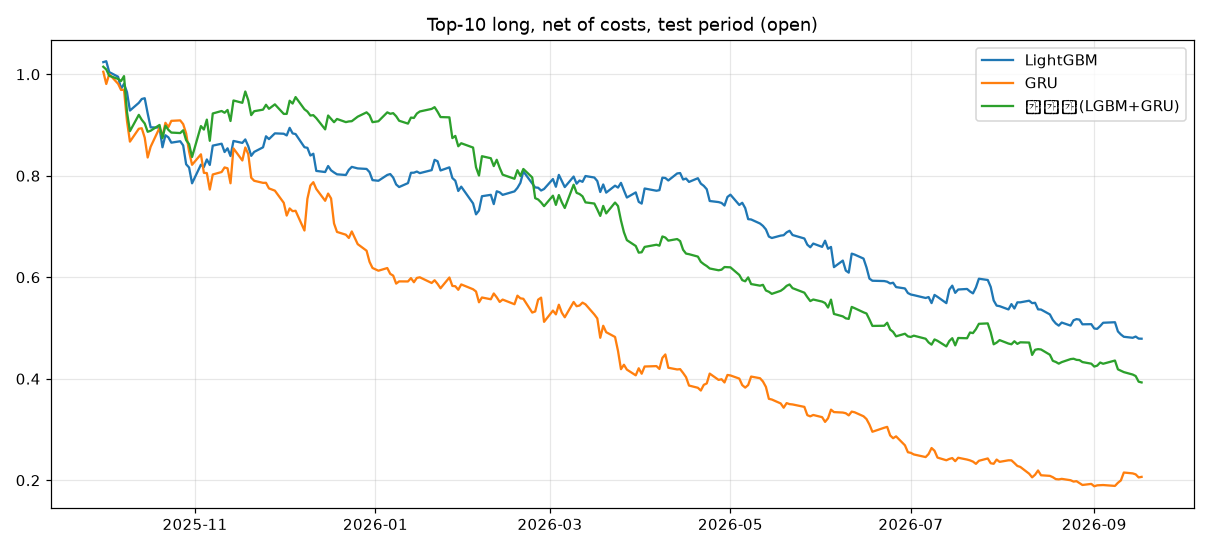
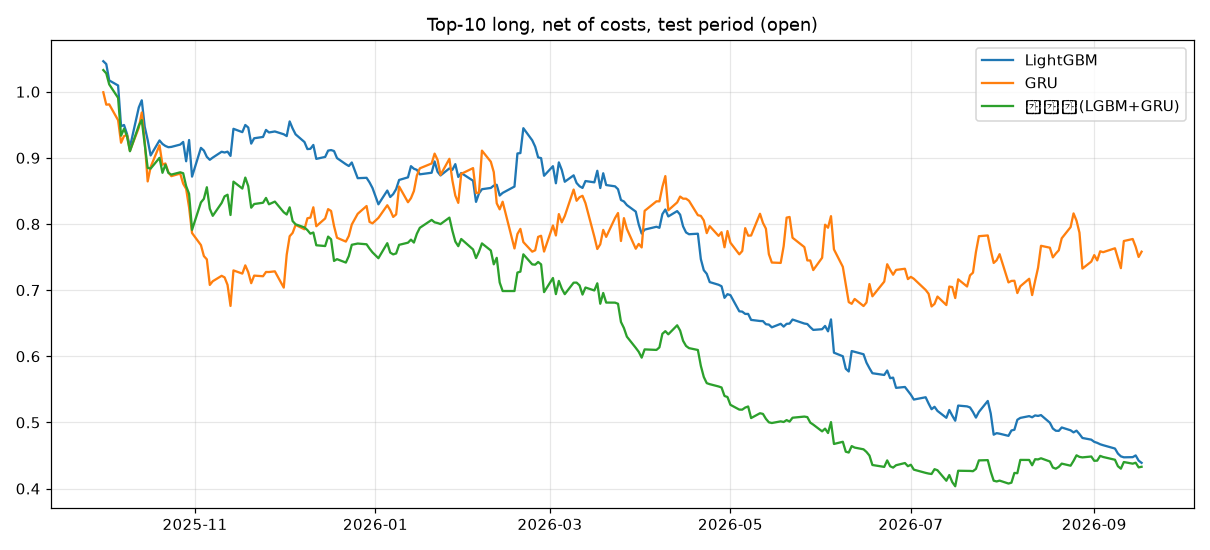
딥러닝 데이트레이딩 최종 결과(수정 특징 재학습), 다일 보유 점검, 보고서·README 반영
Claude-Session: https://claude.ai/code/session_01NSXH9bAKYc4gYm8CBYbLVP

diff --git a/scripts/make_findings.py b/scripts/make_findings.py
@@ -218,6 +218,9 @@ def main() -> None:
 4. 장중(1시간봉·15분봉)에서 시가·첫봉 확인·ORB·첫 눌림·VWAP 진입 × 시간/손절/익절/트레일 청산 조합 150개씩 → 두 기간 모두 양(+)인 조합 0개. 급등 다음날 고가의 58%(1시간봉)/35%(15분 첫 봉)가 개장 직후에 찍힌다.
 5. '승률 높은 거래만 골라 손절을 잘 하면 된다' 는 접근과 데이터의 관계: 손절을 타이트하게 할수록 승률이 15~30%로 떨어진다(급등주 일중 변동폭이 손절폭보다 크다). 손절을 넓히거나 없애면 승률 40~60%가 나오지만 그 승률은 위 2번처럼 체결 가정이나 로또 거래에 기대고 있다.
 6. 비교 기준: S&P 1500 유동주 돌파 추세추종은 올해 +81%(승률 40%) 였지만 작년 +3%(승률 32%) — 고승률도 아니고 올해 반도체 테마 장세 의존.
+7. **딥러닝/ML(7절)**: 문헌 설계(횡단면 순위 목표, LightGBM+GRU, 시간 분할)를 대형주 포함 4,259종목·1시간봉에 적용한 결과, 검증·테스트 모두 일별 IC +0.03~+0.05(t≈4~6)로 **이번 프로젝트에서 유일하게 통계적으로 유의한 예측력**이 나왔다.
+   그러나 시가 매수·종가 매도 상위 10종목의 거래당 총수익은 +0.4%(앙상블)~+0.7%(GRU)로 국내 증권사 왕복 비용 0.7% 와 같거나 낮아 비용후 −0.33%~−0.08%/거래. 10:30 진입은 총수익 ≈ 0. 다일 보유(3·5세션)로 늘리면 거래당 총수익 +0.6~+0.9%지만 중앙값 음수·상위 2% 제외 시 음수·반기 불일치로 강건하지 않다.
+   즉 **모델이 아니라 비용 구조가 병목**이다: 왕복 0.2% 이하(미국 무수수료 브로커 + 유동주 슬리피지)라면 GRU 상위 10 데이트레이딩은 비용후 +0.3~0.5%/거래 수준이 기대되지만, 국내 증권사 0.25%×2 구조에서는 손익분기(0.4~0.76%) 근처에 머문다.
 
 **실현 가능성 판단**: 국내 증권사 계좌(수수료 편도 0.25%, 공매도 불가)로 미국 동전주·소형주 급등주를 추격·눌림·오버나잇·장중 매수하는 자동매매는, 3년치 일봉·2년치 1시간봉·60일치 15분봉으로 24개 모델을 경쟁시킨 결과 **체결 가정을 조금만 현실적으로 바꿔도 살아남는 설정이 없다.** 자동화 대상이 아니라는 것이 검증 결과다.
 

diff --git a/reports/dl_daytrading/README_h1.md b/reports/dl_daytrading/README_h1.md
@@ -9,22 +9,22 @@
 | 모델 | IC 평균 | IC t | IC>0 일 비율 | 십분위 스프레드(상-하) | 상위10 거래/승률/총평균/비용후평균/누적수익/샤프/MDD |
 |---|---|---|---|---|---|
 | **검증** | | | | | |
-| LightGBM | +0.0271 | +1.7 | 64% | +0.05% (+0.08/+0.03) | 590 / 27.8% / +0.183% / -0.526% / -26.9% / -10.21 / -26.7% |
-| GRU | +0.0377 | +2.1 | 61% | +0.12% (+0.09/-0.04) | 590 / 26.4% / +0.200% / -0.565% / -29.0% / -5.50 / -28.5% |
-| 앙상블(LGBM+GRU) | +0.0348 | +2.0 | 61% | +0.08% (+0.09/+0.01) | 590 / 22.7% / +0.255% / -0.450% / -23.5% / -8.82 / -22.4% |
+| LightGBM | +0.0264 | +1.7 | 63% | +0.02% (+0.07/+0.05) | 590 / 26.9% / +0.132% / -0.576% / -29.0% / -12.57 / -29.3% |
+| GRU | +0.0386 | +2.2 | 61% | +0.11% (+0.10/-0.02) | 590 / 27.1% / -0.013% / -0.835% / -39.7% / -6.68 / -39.7% |
+| 앙상블(LGBM+GRU) | +0.0351 | +2.0 | 61% | +0.10% (+0.09/-0.02) | 590 / 22.5% / +0.266% / -0.442% / -23.1% / -8.97 / -22.5% |
 | 장중 모멘텀(첫1h 수익률↑) | -0.0045 | -0.3 | 51% | +0.07% (+0.14/+0.07) | 590 / 42.2% / -0.138% / -1.043% / -47.8% / -5.07 / -52.9% |
 | stocks-in-play(첫1h 상대거래량↑, 양봉만) | +0.0033 | +0.4 | 54% | -0.36% (+0.12/+0.48) | 590 / 38.5% / +0.014% / -0.762% / -37.2% / -5.49 / -47.0% |
-| 갭 페이드(갭↓) | -0.0045 | -0.3 | 53% | -0.01% (+0.01/+0.02) | 590 / 31.9% / -1.070% / -1.908% / -68.7% / -10.61 / -68.8% |
+| 갭 페이드(갭↓) | -0.0116 | -1.1 | 49% | -0.17% (-0.02/+0.14) | 590 / 35.9% / -0.835% / -1.690% / -64.3% / -9.73 / -63.9% |
 | 단기 반전(전일 수익률↓) | +0.0133 | +0.9 | 58% | -0.04% (+0.06/+0.10) | 590 / 36.3% / -0.629% / -1.500% / -60.1% / -7.91 / -61.0% |
 | 20일 모멘텀(↑) | +0.0096 | +0.9 | 56% | +0.06% (+0.10/+0.04) | 590 / 38.5% / -0.709% / -1.655% / -63.9% / -7.71 / -64.7% |
 | 52주 고가 근접(↑) | +0.0219 | +1.2 | 58% | +0.04% (+0.05/+0.01) | 590 / 23.1% / +0.095% / -0.625% / -31.0% / -18.58 / -30.9% |
 | **테스트** | | | | | |
-| LightGBM | +0.0343 | +4.0 | 62% | +0.20% (-0.01/-0.21) | 2410 / 26.3% / -0.001% / -0.720% / -82.8% / -9.93 / -82.4% |
-| GRU | +0.0346 | +4.1 | 59% | +0.21% (-0.01/-0.22) | 2410 / 31.3% / -0.074% / -0.903% / -89.4% / -6.76 / -89.9% |
-| 앙상블(LGBM+GRU) | +0.0370 | +4.2 | 61% | +0.23% (-0.00/-0.23) | 2410 / 23.6% / +0.058% / -0.660% / -80.1% / -9.05 / -80.0% |
+| LightGBM | +0.0336 | +3.9 | 61% | +0.20% (-0.01/-0.21) | 2410 / 25.4% / -0.056% / -0.775% / -84.9% / -10.91 / -84.6% |
+| GRU | +0.0328 | +3.9 | 60% | +0.21% (-0.01/-0.21) | 2410 / 34.9% / +0.152% / -0.728% / -83.9% / -5.05 / -84.7% |
+| 앙상블(LGBM+GRU) | +0.0358 | +4.1 | 62% | +0.21% (+0.00/-0.21) | 2410 / 24.0% / +0.045% / -0.679% / -80.9% / -10.08 / -80.8% |
 | 장중 모멘텀(첫1h 수익률↑) | -0.0314 | -4.4 | 38% | -0.09% (-0.11/-0.02) | 2410 / 38.9% / -0.743% / -1.644% / -98.5% / -6.73 / -98.5% |
 | stocks-in-play(첫1h 상대거래량↑, 양봉만) | -0.0213 | -4.0 | 39% | +0.10% (-0.08/-0.17) | 2410 / 37.6% / -0.351% / -1.141% / -94.2% / -7.11 / -94.1% |
-| 갭 페이드(갭↓) | -0.0067 | -0.7 | 47% | +0.01% (-0.07/-0.08) | 2410 / 40.5% / -0.014% / -0.939% / -91.2% / -4.19 / -91.8% |
+| 갭 페이드(갭↓) | -0.0014 | -0.2 | 50% | +0.02% (-0.07/-0.08) | 2410 / 41.8% / -0.230% / -1.156% / -94.9% / -5.02 / -94.9% |
 | 단기 반전(전일 수익률↓) | -0.0031 | -0.4 | 45% | -0.09% (-0.14/-0.04) | 2410 / 35.9% / -1.213% / -2.137% / -99.5% / -9.76 / -99.5% |
 | 20일 모멘텀(↑) | +0.0041 | +0.6 | 52% | +0.11% (-0.02/-0.14) | 2410 / 38.5% / -0.678% / -1.590% / -98.2% / -6.67 / -98.3% |
 | 52주 고가 근접(↑) | +0.0147 | +1.5 | 56% | +0.08% (-0.06/-0.14) | 2410 / 22.2% / -0.056% / -0.769% / -84.5% / -17.60 / -84.4% |
@@ -33,49 +33,51 @@
 
 | N | 거래 | 승률 | 총평균/거래 | 비용후 평균 | 누적(비용후) | 손익분기 왕복비용 |
 |---|---|---|---|---|---|---|
-| 1 | 241 | 24.5% | -0.004% | -0.727% | -83.6% | -0.00% |
-| 3 | 723 | 23.4% | +0.068% | -0.650% | -79.8% | 0.07% |
-| 5 | 1205 | 23.8% | +0.080% | -0.642% | -79.2% | 0.08% |
-| 10 | 2410 | 23.6% | +0.058% | -0.660% | -80.1% | 0.06% |
-| 20 | 4820 | 23.5% | +0.033% | -0.683% | -81.1% | 0.03% |
-| 50 | 12050 | 23.6% | +0.017% | -0.701% | -81.8% | 0.02% |
+| 1 | 241 | 28.6% | +0.218% | -0.515% | -72.7% | 0.22% |
+| 3 | 723 | 25.7% | +0.143% | -0.585% | -76.2% | 0.14% |
+| 5 | 1205 | 24.4% | +0.082% | -0.645% | -79.4% | 0.08% |
+| 10 | 2410 | 24.0% | +0.045% | -0.679% | -80.9% | 0.05% |
+| 20 | 4820 | 24.2% | +0.020% | -0.704% | -82.0% | 0.02% |
+| 50 | 12050 | 23.5% | -0.012% | -0.735% | -83.3% | -0.01% |
 
 ## 시총 구간별 (테스트, 앙상블 상위 K)
 
 | 시총 구간 | 거래 | 승률 | 총평균 | 비용후 평균 | 누적수익 |
 |---|---|---|---|---|---|
-| <$300M | 2410 | 34.7% | +0.239% | -0.674% | -81.0% |
-| $300M~$2B | 2410 | 34.2% | +0.110% | -0.633% | -78.7% |
-| $2B~$10B | 2410 | 28.8% | +0.031% | -0.675% | -80.8% |
-| >$10B | 2410 | 22.6% | +0.042% | -0.658% | -79.9% |
+| <$300M | 2410 | 33.6% | +0.249% | -0.690% | -81.7% |
+| $300M~$2B | 2410 | 36.1% | +0.099% | -0.651% | -79.7% |
+| $2B~$10B | 2410 | 29.2% | -0.012% | -0.717% | -82.6% |
+| >$10B | 2410 | 22.1% | -0.024% | -0.724% | -82.9% |
 
 ## 같은 예측을 다른 청산에 적용 (테스트, 앙상블 상위 K)
 
-| 청산 | 거래 | 승률 | 총평균 | 비용후 평균 | 누적수익 |
-|---|---|---|---|---|---|
-| 당일 종가(데이트레이딩) | 2410 | 23.6% | +0.058% | -0.660% | -80.1% |
-| 다음날 같은 시점(1일 보유) | 2400 | 34.9% | +0.243% | -0.476% | -69.5% |
-| 3세션 보유(t+2 종가) | 2390 | 29.7% | -0.181% | -0.900% | -90.0% |
-| 5세션 보유(t+4 종가) | 2370 | 33.6% | +0.025% | -0.694% | -84.2% |
+다일 보유의 누적은 자본을 보유일수(H)만큼의 코호트로 나눠 중첩 보유한다고 보고 일 수익률/H 로 근사(중첩 보정). 유니버스 평균 = 같은 기간 아무 종목이나 샀을 때의 평균(베이스라인).
 
-**손익분기 왕복 비용**(앙상블 상위 10, 테스트): 총평균 +0.058%/거래 — 이보다 왕복 비용이 크면 손실. 국내 증권사 기본 수수료(0.25%x2=0.5%)+슬리피지(0.2%)=0.7%.
+| 청산 | 거래 | 승률 | 총평균 | 비용후 평균 | 유니버스 평균 | 누적(중첩 보정) |
+|---|---|---|---|---|---|---|
+| 당일 종가(데이트레이딩) | 2410 | 24.0% | +0.045% | -0.679% | -0.055% | -80.9% |
+| 다음날 같은 시점(1일 보유) | 2400 | 33.9% | +0.195% | -0.530% | +0.014% | -73.3% |
+| 3세션 보유(t+2 종가) | 2390 | 39.2% | +0.207% | -0.517% | -0.030% | -34.5% |
+| 5세션 보유(t+4 종가) | 2370 | 44.1% | +0.463% | -0.262% | -0.015% | -12.2% |
+
+**손익분기 왕복 비용**(앙상블 상위 10, 테스트): 총평균 +0.045%/거래 — 이보다 왕복 비용이 크면 손실. 국내 증권사 기본 수수료(0.25%x2=0.5%)+슬리피지(0.2%)=0.7%.
 
 ## LightGBM 특징 중요도 (gain 상위 15)
 
 | 특징 | gain |
 |---|---|
-| spy_h1 | 7,463 |
-| spy_prev | 6,787 |
-| atr_pct | 2,631 |
-| lr_m1 | 1,369 |
-| h1_ret | 852 |
-| spy_above200 | 773 |
-| from_high52 | 737 |
-| rng_mean35 | 730 |
-| lr_sum_14_7 | 700 |
-| prev_ret | 528 |
-| log_mcap | 479 |
-| gap | 438 |
-| rng_mean7 | 415 |
-| ret20 | 408 |
-| ret60 | 395 |
+| spy_h1 | 6,979 |
+| spy_prev | 5,990 |
+| atr_pct | 2,566 |
+| lr_m1 | 1,379 |
+| h1_ret | 800 |
+| rng_mean35 | 783 |
+| spy_above200 | 751 |
+| lr_sum_14_7 | 693 |
+| from_high52 | 659 |
+| prev_ret | 530 |
+| log_mcap | 498 |
+| ret20 | 392 |
+| rng_mean7 | 389 |
+| gap | 364 |
+| ret60 | 328 |

diff --git a/reports/dl_daytrading/README_open.md b/reports/dl_daytrading/README_open.md
@@ -9,18 +9,18 @@
 | 모델 | IC 평균 | IC t | IC>0 일 비율 | 십분위 스프레드(상-하) | 상위10 거래/승률/총평균/비용후평균/누적수익/샤프/MDD |
 |---|---|---|---|---|---|
 | **검증** | | | | | |
-| LightGBM | +0.0382 | +2.1 | 61% | +0.29% (+0.07/-0.21) | 590 / 36.4% / +0.059% / -0.650% / -32.4% / -6.96 / -30.8% |
-| GRU | +0.0386 | +1.8 | 61% | +0.22% (+0.07/-0.15) | 590 / 32.2% / -0.055% / -0.841% / -40.1% / -5.90 / -36.9% |
-| 앙상블(LGBM+GRU) | +0.0394 | +1.9 | 64% | +0.22% (+0.05/-0.17) | 590 / 34.9% / +0.100% / -0.611% / -30.8% / -6.89 / -31.0% |
-| 갭 페이드(갭↓) | +0.0093 | +0.6 | 59% | +0.17% (+0.09/-0.08) | 590 / 38.1% / -1.076% / -1.913% / -69.2% / -8.51 / -69.7% |
+| LightGBM | +0.0483 | +2.6 | 66% | +0.34% (+0.10/-0.25) | 590 / 40.2% / +0.394% / -0.317% / -17.5% / -4.01 / -18.1% |
+| GRU | +0.0493 | +2.5 | 64% | +0.30% (+0.09/-0.21) | 590 / 43.1% / +0.252% / -0.506% / -26.8% / -3.90 / -27.0% |
+| 앙상블(LGBM+GRU) | +0.0506 | +2.6 | 64% | +0.30% (+0.09/-0.21) | 590 / 41.9% / +0.239% / -0.481% / -25.4% / -4.74 / -26.5% |
+| 갭 페이드(갭↓) | +0.0379 | +3.2 | 68% | +0.21% (+0.10/-0.11) | 590 / 42.0% / -0.733% / -1.589% / -62.7% / -6.76 / -64.5% |
 | 단기 반전(전일 수익률↓) | +0.0176 | +1.3 | 59% | +0.00% (-0.07/-0.07) | 590 / 35.9% / -1.855% / -2.723% / -81.3% / -10.98 / -81.1% |
 | 20일 모멘텀(↑) | +0.0077 | +0.7 | 51% | +0.05% (+0.01/-0.04) | 590 / 39.0% / -1.311% / -2.258% / -75.7% / -7.79 / -78.2% |
 | 52주 고가 근접(↑) | +0.0310 | +1.4 | 63% | +0.09% (+0.05/-0.04) | 590 / 28.5% / +0.094% / -0.626% / -31.1% / -13.08 / -31.0% |
 | **테스트** | | | | | |
-| LightGBM | +0.0404 | +4.0 | 61% | +0.50% (+0.11/-0.40) | 2410 / 42.8% / +0.435% / -0.288% / -52.1% / -2.51 / -53.3% |
-| GRU | +0.0405 | +4.1 | 63% | +0.48% (+0.09/-0.39) | 2410 / 38.0% / +0.175% / -0.613% / -79.3% / -3.45 / -81.3% |
-| 앙상블(LGBM+GRU) | +0.0416 | +4.1 | 61% | +0.50% (+0.10/-0.40) | 2410 / 38.8% / +0.351% / -0.368% / -60.7% / -3.02 / -61.3% |
-| 갭 페이드(갭↓) | +0.0235 | +2.5 | 59% | +0.27% (+0.08/-0.20) | 2410 / 44.4% / -0.043% / -0.968% / -92.3% / -3.61 / -92.8% |
+| LightGBM | +0.0457 | +4.8 | 62% | +0.51% (+0.10/-0.40) | 2410 / 42.2% / +0.402% / -0.324% / -56.1% / -2.75 / -58.0% |
+| GRU | +0.0544 | +5.7 | 65% | +0.57% (+0.15/-0.42) | 2410 / 46.6% / +0.699% / -0.076% / -24.2% / -0.44 / -32.4% |
+| 앙상블(LGBM+GRU) | +0.0523 | +5.4 | 63% | +0.57% (+0.14/-0.43) | 2410 / 43.8% / +0.410% / -0.327% / -56.7% / -2.58 / -60.9% |
+| 갭 페이드(갭↓) | +0.0419 | +4.6 | 65% | +0.38% (+0.10/-0.27) | 2410 / 45.5% / -0.208% / -1.134% / -94.9% / -4.18 / -95.0% |
 | 단기 반전(전일 수익률↓) | +0.0017 | +0.2 | 51% | -0.11% (-0.19/-0.09) | 2410 / 38.0% / -1.770% / -2.694% / -99.9% / -9.31 / -99.9% |
 | 20일 모멘텀(↑) | -0.0031 | -0.4 | 49% | +0.13% (-0.06/-0.19) | 2410 / 38.6% / -1.143% / -2.053% / -99.5% / -6.82 / -99.5% |
 | 52주 고가 근접(↑) | +0.0126 | +1.2 | 54% | +0.14% (-0.04/-0.17) | 2410 / 27.1% / -0.076% / -0.790% / -85.4% / -13.21 / -85.3% |
@@ -29,49 +29,51 @@
 
 | N | 거래 | 승률 | 총평균/거래 | 비용후 평균 | 누적(비용후) | 손익분기 왕복비용 |
 |---|---|---|---|---|---|---|
-| 1 | 241 | 45.6% | +0.596% | -0.130% | -52.8% | 0.60% |
-| 3 | 723 | 42.0% | +0.642% | -0.077% | -28.6% | 0.64% |
-| 5 | 1205 | 41.1% | +0.463% | -0.255% | -50.0% | 0.46% |
-| 10 | 2410 | 38.8% | +0.351% | -0.368% | -60.7% | 0.35% |
-| 20 | 4820 | 38.0% | +0.331% | -0.384% | -61.5% | 0.33% |
-| 50 | 12050 | 35.5% | +0.234% | -0.479% | -69.1% | 0.23% |
+| 1 | 241 | 49.0% | +0.758% | +0.015% | -33.6% | 0.76% |
+| 3 | 723 | 46.7% | +0.270% | -0.467% | -71.8% | 0.27% |
+| 5 | 1205 | 46.1% | +0.468% | -0.271% | -52.2% | 0.47% |
+| 10 | 2410 | 43.8% | +0.410% | -0.327% | -56.7% | 0.41% |
+| 20 | 4820 | 41.6% | +0.362% | -0.368% | -60.1% | 0.36% |
+| 50 | 12050 | 39.0% | +0.258% | -0.462% | -67.9% | 0.26% |
 
 ## 시총 구간별 (테스트, 앙상블 상위 K)
 
 | 시총 구간 | 거래 | 승률 | 총평균 | 비용후 평균 | 누적수익 |
 |---|---|---|---|---|---|
-| <$300M | 2410 | 29.7% | +0.354% | -0.533% | -73.5% |
-| $300M~$2B | 2410 | 42.7% | +0.490% | -0.264% | -49.8% |
-| $2B~$10B | 2410 | 40.6% | +0.420% | -0.287% | -51.8% |
-| >$10B | 2410 | 34.4% | +0.149% | -0.552% | -74.3% |
+| <$300M | 2410 | 37.1% | +0.542% | -0.356% | -59.8% |
+| $300M~$2B | 2410 | 46.2% | +0.487% | -0.256% | -48.7% |
+| $2B~$10B | 2410 | 44.1% | +0.389% | -0.315% | -54.8% |
+| >$10B | 2410 | 36.2% | +0.157% | -0.544% | -73.9% |
 
 ## 같은 예측을 다른 청산에 적용 (테스트, 앙상블 상위 K)
 
-| 청산 | 거래 | 승률 | 총평균 | 비용후 평균 | 누적수익 |
-|---|---|---|---|---|---|
-| 당일 종가(데이트레이딩) | 2410 | 38.8% | +0.351% | -0.368% | -60.7% |
-| 다음날 같은 시점(1일 보유) | 2400 | 43.2% | +0.403% | -0.316% | -55.7% |
-| 3세션 보유(t+2 종가) | 2390 | 43.6% | +1.678% | +0.959% | +669.8% |
-| 5세션 보유(t+4 종가) | 2370 | 45.9% | +1.810% | +1.090% | +888.4% |
+다일 보유의 누적은 자본을 보유일수(H)만큼의 코호트로 나눠 중첩 보유한다고 보고 일 수익률/H 로 근사(중첩 보정). 유니버스 평균 = 같은 기간 아무 종목이나 샀을 때의 평균(베이스라인).
 
-**손익분기 왕복 비용**(앙상블 상위 10, 테스트): 총평균 +0.351%/거래 — 이보다 왕복 비용이 크면 손실. 국내 증권사 기본 수수료(0.25%x2=0.5%)+슬리피지(0.2%)=0.7%.
+| 청산 | 거래 | 승률 | 총평균 | 비용후 평균 | 유니버스 평균 | 누적(중첩 보정) |
+|---|---|---|---|---|---|---|
+| 당일 종가(데이트레이딩) | 2410 | 43.8% | +0.410% | -0.327% | -0.029% | -56.7% |
+| 다음날 같은 시점(1일 보유) | 2400 | 47.0% | +0.459% | -0.277% | +0.016% | -51.7% |
+| 3세션 보유(t+2 종가) | 2390 | 49.5% | +0.593% | -0.143% | -0.001% | -12.0% |
+| 5세션 보유(t+4 종가) | 2370 | 49.3% | +0.859% | +0.123% | +0.017% | +5.2% |
+
+**손익분기 왕복 비용**(앙상블 상위 10, 테스트): 총평균 +0.410%/거래 — 이보다 왕복 비용이 크면 손실. 국내 증권사 기본 수수료(0.25%x2=0.5%)+슬리피지(0.2%)=0.7%.
 
 ## LightGBM 특징 중요도 (gain 상위 15)
 
 | 특징 | gain |
 |---|---|
-| spy_prev | 11,129 |
-| gap | 3,188 |
-| atr_pct | 2,808 |
-| rng_mean35 | 2,630 |
-| from_high52 | 862 |
-| rng_mean7 | 816 |
-| spy_above200 | 657 |
-| lr_m7 | 653 |
-| volz_mean7 | 470 |
-| lr_m4 | 393 |
-| log_mcap | 374 |
-| log_adv | 373 |
-| volz_last | 344 |
-| lr_sum_14_7 | 343 |
-| ret20 | 307 |
+| spy_prev | 9,016 |
+| gap | 5,759 |
+| atr_pct | 2,730 |
+| rng_mean35 | 2,452 |
+| rng_mean7 | 1,213 |
+| from_high52 | 1,040 |
+| spy_above200 | 610 |
+| lr_m7 | 527 |
+| log_adv | 520 |
+| log_mcap | 518 |
+| volz_mean7 | 471 |
+| ret60 | 448 |
+| vol_ratio_prev | 440 |
+| lr_m4 | 392 |
+| log_price | 348 |

diff --git a/reports/surge_study/FINDINGS.md b/reports/surge_study/FINDINGS.md
@@ -19,6 +19,9 @@
 4. 장중(1시간봉·15분봉)에서 시가·첫봉 확인·ORB·첫 눌림·VWAP 진입 × 시간/손절/익절/트레일 청산 조합 150개씩 → 두 기간 모두 양(+)인 조합 0개. 급등 다음날 고가의 58%(1시간봉)/35%(15분 첫 봉)가 개장 직후에 찍힌다.
 5. '승률 높은 거래만 골라 손절을 잘 하면 된다' 는 접근과 데이터의 관계: 손절을 타이트하게 할수록 승률이 15~30%로 떨어진다(급등주 일중 변동폭이 손절폭보다 크다). 손절을 넓히거나 없애면 승률 40~60%가 나오지만 그 승률은 위 2번처럼 체결 가정이나 로또 거래에 기대고 있다.
 6. 비교 기준: S&P 1500 유동주 돌파 추세추종은 올해 +81%(승률 40%) 였지만 작년 +3%(승률 32%) — 고승률도 아니고 올해 반도체 테마 장세 의존.
+7. **딥러닝/ML(7절)**: 문헌 설계(횡단면 순위 목표, LightGBM+GRU, 시간 분할)를 대형주 포함 4,259종목·1시간봉에 적용한 결과, 검증·테스트 모두 일별 IC +0.03~+0.05(t≈4~6)로 **이번 프로젝트에서 유일하게 통계적으로 유의한 예측력**이 나왔다.
+   그러나 시가 매수·종가 매도 상위 10종목의 거래당 총수익은 +0.4%(앙상블)~+0.7%(GRU)로 국내 증권사 왕복 비용 0.7% 와 같거나 낮아 비용후 −0.33%~−0.08%/거래. 10:30 진입은 총수익 ≈ 0. 다일 보유(3·5세션)로 늘리면 거래당 총수익 +0.6~+0.9%지만 중앙값 음수·상위 2% 제외 시 음수·반기 불일치로 강건하지 않다.
+   즉 **모델이 아니라 비용 구조가 병목**이다: 왕복 0.2% 이하(미국 무수수료 브로커 + 유동주 슬리피지)라면 GRU 상위 10 데이트레이딩은 비용후 +0.3~0.5%/거래 수준이 기대되지만, 국내 증권사 0.25%×2 구조에서는 손익분기(0.4~0.76%) 근처에 머문다.
 
 **실현 가능성 판단**: 국내 증권사 계좌(수수료 편도 0.25%, 공매도 불가)로 미국 동전주·소형주 급등주를 추격·눌림·오버나잇·장중 매수하는 자동매매는, 3년치 일봉·2년치 1시간봉·60일치 15분봉으로 24개 모델을 경쟁시킨 결과 **체결 가정을 조금만 현실적으로 바꿔도 살아남는 설정이 없다.** 자동화 대상이 아니라는 것이 검증 결과다.
 
@@ -216,7 +219,40 @@
 
 봉별 고가/저가 분포와 시간대별 수익률은 `intraday_1h/README.md`, `intraday_15m/README.md` 참고.
 
-## 7. 비교: S&P 1500 유동주 전략 (같은 비용)
+## 7. 딥러닝/ML 데이트레이딩 (대형주 포함 4,259종목, 1시간봉, 문헌 설계 차용)
+
+문헌(Fischer & Krauss 2018, Ghosh et al. 2021, Gao et al. 2018, Zarattini et al. 2024, Kaggle 상위 솔루션, López de Prado)의 설계를 그대로 차용해
+횡단면 순위 목표값 + LightGBM/GRU 앙상블을 학습(~2025-06)·검증(2025-07~09)·테스트(2025-10~2026-09)로 나눠 평가했다. 조사 내용: `docs/daytrading_dl_research.md`.
+
+### 시가 결정 → 종가 청산
+
+| 모델 | IC(t) | 상위10 승률 | 총평균/거래 | 비용후/거래 | 누적(비용후) |
+|---|---|---|---|---|---|
+| LightGBM | +0.046 (+4.8) | 42.2% | +0.402% | -0.324% | -56.1% |
+| GRU | +0.054 (+5.7) | 46.6% | +0.699% | -0.076% | -24.2% |
+| 앙상블(LGBM+GRU) | +0.052 (+5.4) | 43.8% | +0.410% | -0.327% | -56.7% |
+| 갭 페이드(갭↓) | +0.042 (+4.6) | 45.5% | -0.208% | -1.134% | -94.9% |
+| 단기 반전(전일 수익률↓) | +0.002 (+0.2) | 38.0% | -1.770% | -2.694% | -99.9% |
+| 20일 모멘텀(↑) | -0.003 (-0.4) | 38.6% | -1.143% | -2.053% | -99.5% |
+| 52주 고가 근접(↑) | +0.013 (+1.2) | 27.1% | -0.076% | -0.790% | -85.4% |
+
+### 10:30 결정 → 종가 청산
+
+| 모델 | IC(t) | 상위10 승률 | 총평균/거래 | 비용후/거래 | 누적(비용후) |
+|---|---|---|---|---|---|
+| LightGBM | +0.034 (+3.9) | 25.4% | -0.056% | -0.775% | -84.9% |
+| GRU | +0.033 (+3.9) | 34.9% | +0.152% | -0.728% | -83.9% |
+| 앙상블(LGBM+GRU) | +0.036 (+4.1) | 24.0% | +0.045% | -0.679% | -80.9% |
+| 장중 모멘텀(첫1h 수익률↑) | -0.031 (-4.4) | 38.9% | -0.743% | -1.644% | -98.5% |
+| stocks-in-play(첫1h 상대거래량↑, 양봉만) | -0.021 (-4.0) | 37.6% | -0.351% | -1.141% | -94.2% |
+| 갭 페이드(갭↓) | -0.001 (-0.2) | 41.8% | -0.230% | -1.156% | -94.9% |
+| 단기 반전(전일 수익률↓) | -0.003 (-0.4) | 35.9% | -1.213% | -2.137% | -99.5% |
+| 20일 모멘텀(↑) | +0.004 (+0.6) | 38.5% | -0.678% | -1.590% | -98.2% |
+| 52주 고가 근접(↑) | +0.015 (+1.5) | 22.2% | -0.056% | -0.769% | -84.5% |
+상세(상위 N 스윕, 시총 구간, 다일 보유, 장중 청산 규칙): `reports/dl_daytrading/README_open.md`, `README_h1.md`, `exits_*.md`.
+
+
+## 8. 비교: S&P 1500 유동주 전략 (같은 비용)
 
 | 전략 | 기간 | 거래 | 승률 | 수익률 | MDD | PF | SPY |
 |---|---|---|---|---|---|---|---|
@@ -225,7 +261,7 @@
 | pullback | 2025-09-18~2026-09-17 | 583 | 52.8% | -34.7% | -37.8% | 0.60 | +16.4% |
 | breakout | 2025-09-18~2026-09-17 | 141 | 39.7% | +80.9% | -20.5% | 1.96 | +16.4% |
 
-## 8. 한계와 다음 단계
+## 9. 한계와 다음 단계
 
 - 생존 편향(상장폐지 종목 누락), 프리마켓·뉴스·공시 데이터 부재, float 대신 발행주식수, 15분봉은 60일뿐.
 - 1분·15분봉 1년치가 필요하면 국내 증권사 API(한국투자증권 해외주식 분봉)로 매일 축적하거나 유료 데이터(Polygon 등)를 붙여야 한다. `scripts/fetch_intraday.py` 와 `scripts/intraday_study.py` 는 봉 간격만 바꾸면 그대로 쓸 수 있다.

diff --git a/reports/dl_daytrading/multiday_open.md b/reports/dl_daytrading/multiday_open.md
@@ -1,0 +1,63 @@
+# 같은 예측으로 다일 보유 — 점검 (결정 open, 앙상블 상위 10)
+
+시간봉 종가 기준 라벨(배당 미조정 기준 통일). 비용후 = 왕복 0.7%(≥$5)/1.5%(동전주). 누적(중첩 보정) = 일 수익률/보유일수 로 근사. 상위10건 손익 비중 = 상위 10건 순손익 / 전체 순손익(100% 초과면 나머지 거래 합이 손실).
+
+## 당일 종가 (y_rod)
+
+| 구분 | 거래 | 승률 | 총평균 | 비용후 평균 | 중앙값 | 누적(중첩 보정) | 상위10건 손익 비중 | 상위 2% 제외 평균 |
+|---|---|---|---|---|---|---|---|---|
+| 테스트 전체 | 2410 | 43.8% | +0.410% | -0.327% | -0.389% | -56.7% | nan% | -0.670% |
+| 테스트 전반(~2026-03-14) | 1120 | 44.8% | +0.452% | -0.288% | -0.361% | -29.6% | nan% | -0.664% |
+| 테스트 후반(2026-03-15~) | 1290 | 42.9% | +0.373% | -0.360% | -0.404% | -38.5% | nan% | -0.660% |
+| 검증(2025-07~09) | 590 | 41.9% | +0.239% | -0.481% | -0.396% | -25.4% | nan% | -0.711% |
+| 테스트 시총 <$300M | 2410 | 37.1% | +0.542% | -0.356% | -0.586% | -59.8% | nan% | -0.779% |
+| 테스트 시총 $300M~$2B | 2410 | 46.2% | +0.487% | -0.256% | -0.203% | -48.7% | nan% | -0.562% |
+| 테스트 시총 $2B~$10B | 2410 | 44.1% | +0.389% | -0.315% | -0.340% | -54.8% | nan% | -0.582% |
+| 테스트 시총 >$10B | 2410 | 36.2% | +0.157% | -0.544% | -0.595% | -73.9% | nan% | -0.738% |
+
+유니버스 평균(테스트, 베이스라인): -0.029% · 십분위별 평균: 0:-0.43%, 1:+0.00%, 2:+0.01%, 3:-0.01%, 4:-0.03%, 5:-0.01%, 6:-0.01%, 7:+0.01%, 8:+0.05%, 9:+0.14%
+
+## 1일 보유 (y_nd)
+
+| 구분 | 거래 | 승률 | 총평균 | 비용후 평균 | 중앙값 | 누적(중첩 보정) | 상위10건 손익 비중 | 상위 2% 제외 평균 |
+|---|---|---|---|---|---|---|---|---|
+| 테스트 전체 | 2400 | 47.0% | +0.459% | -0.277% | -0.232% | -51.7% | nan% | -0.631% |
+| 테스트 전반(~2026-03-14) | 1120 | 44.6% | +0.365% | -0.376% | -0.334% | -36.3% | nan% | -0.750% |
+| 테스트 후반(2026-03-15~) | 1280 | 49.1% | +0.542% | -0.190% | -0.094% | -24.2% | nan% | -0.516% |
+| 검증(2025-07~09) | 590 | 44.1% | +0.283% | -0.437% | -0.429% | -23.4% | nan% | -0.682% |
+| 테스트 시총 <$300M | 2400 | 37.3% | +0.282% | -0.615% | -0.626% | -78.6% | nan% | -1.052% |
+| 테스트 시총 $300M~$2B | 2399 | 47.9% | +0.521% | -0.221% | -0.162% | -44.6% | nan% | -0.525% |
+| 테스트 시총 $2B~$10B | 2400 | 45.8% | +0.488% | -0.216% | -0.248% | -43.1% | nan% | -0.517% |
+| 테스트 시총 >$10B | 2400 | 41.8% | +0.333% | -0.368% | -0.454% | -60.4% | nan% | -0.603% |
+
+유니버스 평균(테스트, 베이스라인): +0.016% · 십분위별 평균: 0:-0.51%, 1:+0.04%, 2:+0.06%, 3:+0.04%, 4:+0.03%, 5:+0.05%, 6:+0.03%, 7:+0.07%, 8:+0.11%, 9:+0.23%
+
+## 3세션 보유 (y_3d)
+
+| 구분 | 거래 | 승률 | 총평균 | 비용후 평균 | 중앙값 | 누적(중첩 보정) | 상위10건 손익 비중 | 상위 2% 제외 평균 |
+|---|---|---|---|---|---|---|---|---|
+| 테스트 전체 | 2390 | 49.5% | +0.593% | -0.143% | -0.027% | -12.0% | nan% | -0.637% |
+| 테스트 전반(~2026-03-14) | 1120 | 47.8% | +0.329% | -0.412% | -0.222% | -14.9% | nan% | -0.889% |
+| 테스트 후반(2026-03-15~) | 1270 | 51.0% | +0.827% | +0.095% | +0.102% | +3.4% | 279% | -0.413% |
+| 검증(2025-07~09) | 590 | 47.6% | +0.586% | -0.134% | -0.218% | -2.8% | nan% | -0.545% |
+| 테스트 시총 <$300M | 2390 | 40.2% | +0.346% | -0.551% | -0.654% | -36.6% | nan% | -1.346% |
+| 테스트 시총 $300M~$2B | 2390 | 49.9% | +0.556% | -0.187% | -0.015% | -15.0% | nan% | -0.601% |
+| 테스트 시총 $2B~$10B | 2390 | 48.4% | +0.622% | -0.082% | -0.146% | -7.4% | nan% | -0.461% |
+| 테스트 시총 >$10B | 2390 | 46.1% | +0.391% | -0.310% | -0.283% | -22.7% | nan% | -0.646% |
+
+유니버스 평균(테스트, 베이스라인): -0.001% · 십분위별 평균: 0:-1.12%, 1:+0.14%, 2:+0.12%, 3:+0.05%, 4:+0.06%, 5:+0.08%, 6:+0.06%, 7:+0.13%, 8:+0.17%, 9:+0.30%
+
+## 5세션 보유 (y_5d)
+
+| 구분 | 거래 | 승률 | 총평균 | 비용후 평균 | 중앙값 | 누적(중첩 보정) | 상위10건 손익 비중 | 상위 2% 제외 평균 |
+|---|---|---|---|---|---|---|---|---|
+| 테스트 전체 | 2370 | 49.3% | +0.859% | +0.123% | -0.049% | +5.2% | 227% | -0.577% |
+| 테스트 전반(~2026-03-14) | 1120 | 47.8% | +0.472% | -0.269% | -0.189% | -6.2% | nan% | -0.997% |
+| 테스트 후반(2026-03-15~) | 1250 | 50.6% | +1.207% | +0.474% | +0.041% | +12.1% | 79% | -0.198% |
+| 검증(2025-07~09) | 590 | 54.1% | +1.103% | +0.383% | +0.288% | +4.5% | 121% | -0.116% |
+| 테스트 시총 <$300M | 2370 | 39.1% | -0.082% | -0.979% | -0.774% | -37.7% | nan% | -1.983% |
+| 테스트 시총 $300M~$2B | 2369 | 49.4% | +0.630% | -0.113% | -0.073% | -5.8% | nan% | -0.666% |
+| 테스트 시총 $2B~$10B | 2370 | 48.6% | +0.725% | +0.021% | -0.160% | +0.4% | 715% | -0.424% |
+| 테스트 시총 >$10B | 2370 | 46.0% | +0.457% | -0.243% | -0.402% | -11.3% | nan% | -0.648% |
+
+유니버스 평균(테스트, 베이스라인): +0.017% · 십분위별 평균: 0:-1.76%, 1:+0.23%, 2:+0.23%, 3:+0.14%, 4:+0.17%, 5:+0.21%, 6:+0.15%, 7:+0.22%, 8:+0.23%, 9:+0.34%

diff --git a/README.md b/README.md
@@ -12,6 +12,8 @@
   익절 체결 조건을 '고가+3%'로만 바꿔도 학습 수익이 -21~-61%, '종가 확인' 체결이면 -92~-97%. 눌림목 계열(+160%)은 검증 전반 +0.8%/후반 -41%, 상위 10건 손익 비중 249%(로또 거래 의존).
 - '이유 없는 급등'(실적 무관)은 실적 급등보다 더 나쁘고(3일 보유 -1.3~-1.8%), 회전율 100%↑ 급등은 3일 중앙값 -7~-9%. 급등 다음날 고가의 58%(1시간봉)/35%(15분 첫 봉)는 개장 직후.
 - 장중 진입×청산×손절 조합 300개(1시간봉·15분봉) 중 두 기간 모두 양(+)은 0개. **결론: 국내 계좌로 미국 동전주·소형주 급등주를 매수하는 자동매매는 검증을 통과한 설정이 없다.**
+- **딥러닝/ML 데이트레이딩(대형주 포함 4,259종목, 1시간봉)** → [`reports/dl_daytrading/README_open.md`](reports/dl_daytrading/README_open.md): 문헌 설계(횡단면 순위 목표, LightGBM+GRU 앙상블, 시간 분할)로 테스트 IC +0.03~+0.05(t≈4~6)의 **유의한 예측력**은 확인.
+  하지만 시가 매수·종가 매도 상위 10종목의 거래당 총수익 +0.4~+0.7%가 국내 증권사 왕복 비용 0.7%와 같거나 낮아 비용후 −0.3~−0.1%/거래. 병목은 모델이 아니라 수수료 구조(왕복 0.2% 이하면 비용후 양수 기대).
 
 ## 구조
 
